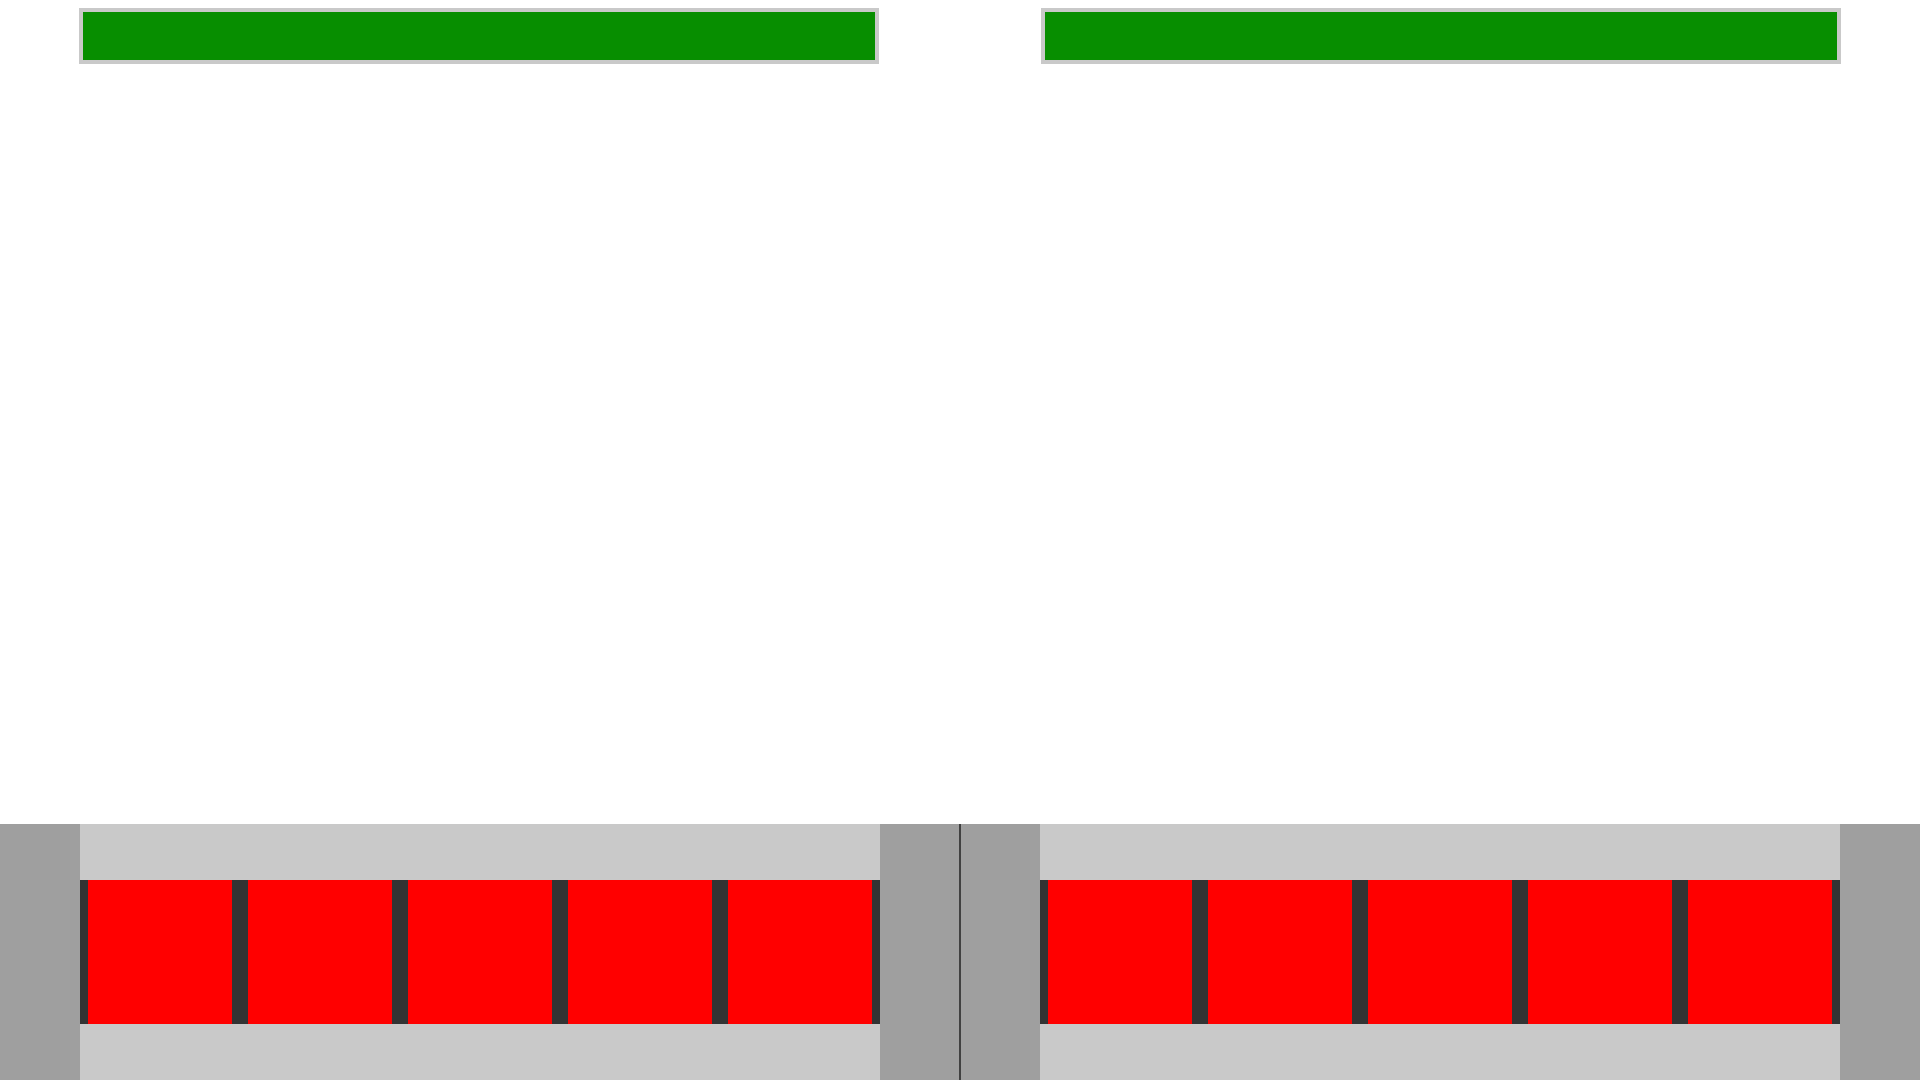
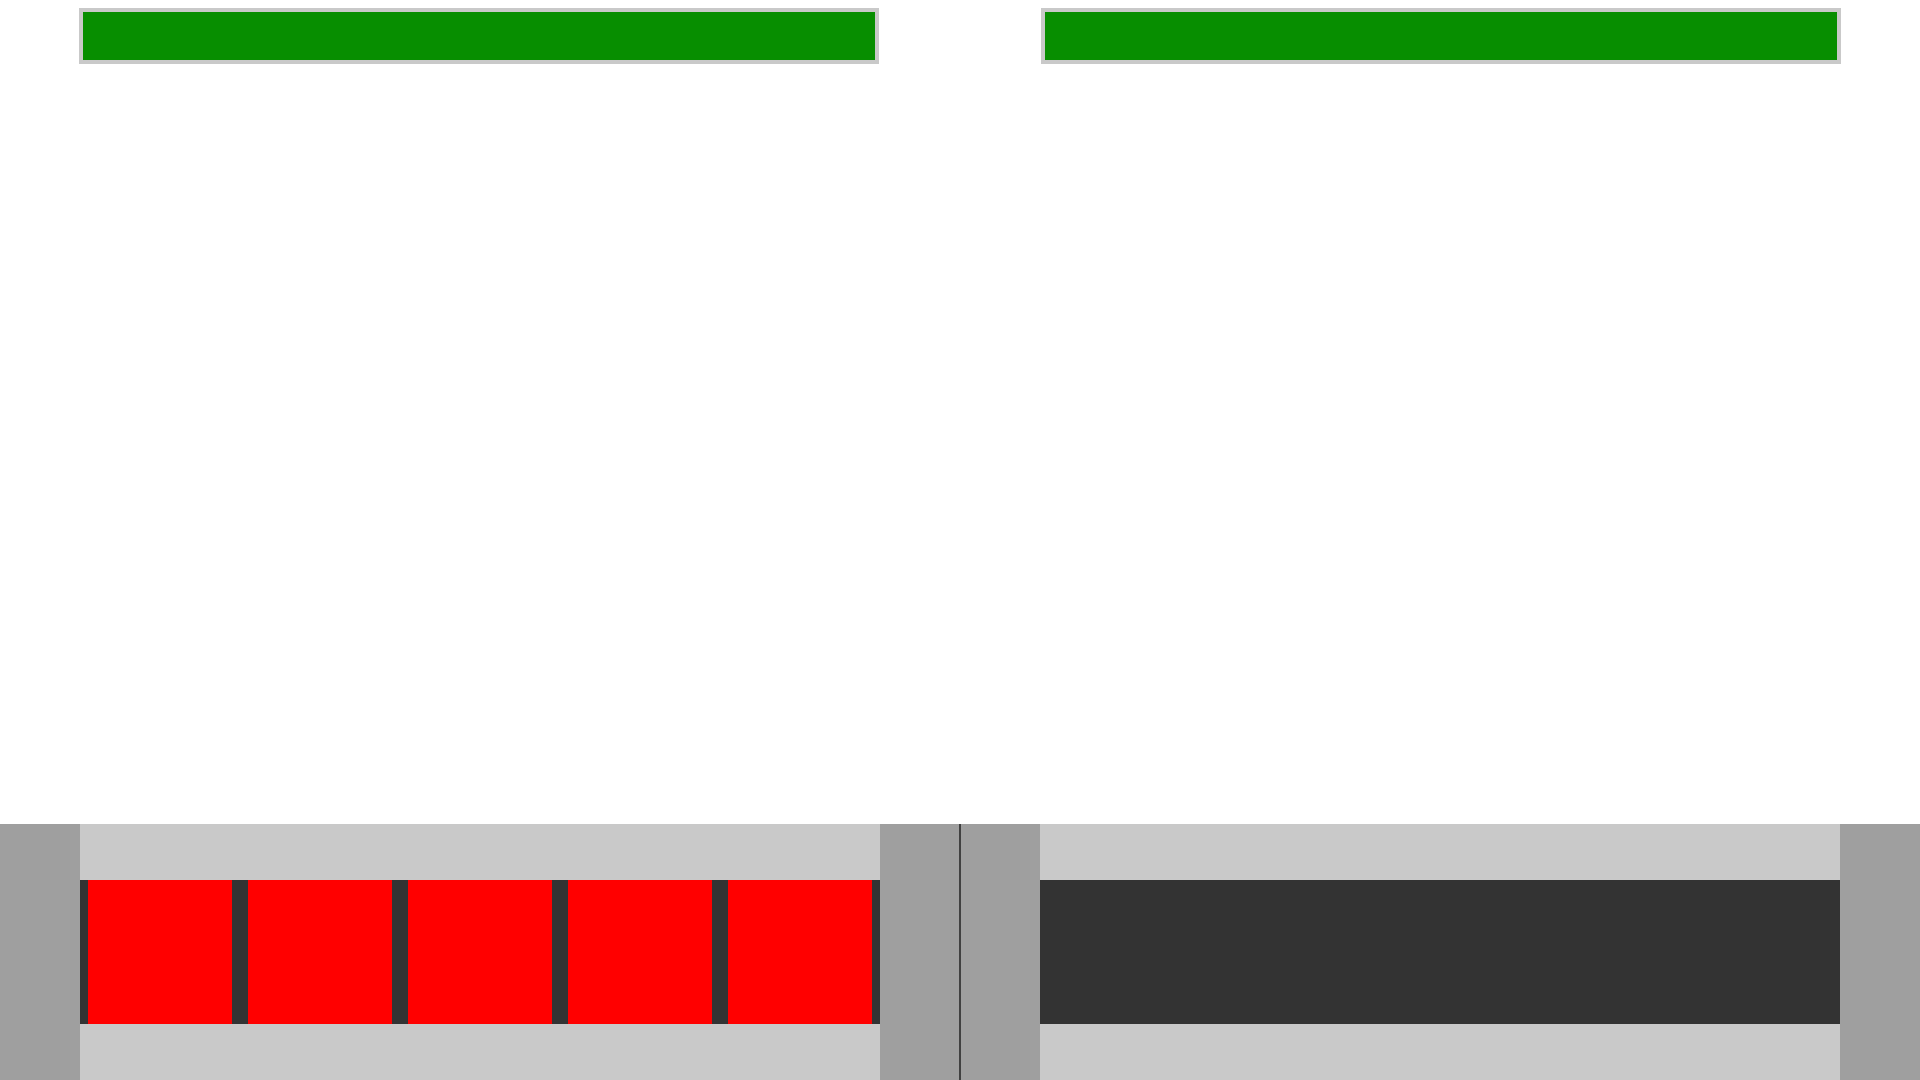
Kodverifiering och mindre grafisk uppdatering
Victor, Marcus o Gino

Changed region(s): [[0.5312, 0.7944, 0.9688, 0.9472]]

diff --git a/Grupp 31-SystemUtveckling/Grupp 31-SystemUtveckling/Archive.cs b/Grupp 31-SystemUtveckling/Grupp 31-SystemUtveckling/Archive.cs
@@ -17,29 +17,30 @@ namespace Grupp_31_SystemUtveckling
 
         public static void Initialize(ContentManager Content)
         {
-            // Order alphabetically Kappa
+            // Order alphabetically
             // textureDictionary["name"] = Content.Load<Texture2D>("name_in_content_manager");
             // ex. textureDictionary["tile_stone"] = Content.Load<Texture2D>("Tiles\tile_stone");
-            textureDictionary["uiCombat"] = Content.Load<Texture2D>("combatUITemplate");
-            textureDictionary["menuBackground"] = Content.Load<Texture2D>("menuBackground");
-            textureDictionary["menuHeader"] = Content.Load<Texture2D>("menuHeader");
             textureDictionary["button"] = Content.Load<Texture2D>("button");
             textureDictionary["combatScenary"] = Content.Load<Texture2D>("combatScenary");
+            textureDictionary["EditorTile"] = Content.Load<Texture2D>("TilePlaceHolder2");
+            textureDictionary["menuBackground"] = Content.Load<Texture2D>("menuBackground");
+            textureDictionary["menuHeader"] = Content.Load<Texture2D>("menuHeader");
             textureDictionary["owlbearCombat"] = Content.Load<Texture2D>("Enemies\\enemyCombatTest");
             textureDictionary["owlbearCombatOutline"] = Content.Load<Texture2D>("Enemies\\Outline\\enemyCombatTestOutline");
             textureDictionary["playerPlaceholder"] = Content.Load<Texture2D>("cool bild transparent fixed");
-            textureDictionary["resourceBarFrame"] = Content.Load<Texture2D>("resourceBarFrame");
             textureDictionary["resourceBarFilling"] = Content.Load<Texture2D>("resourceBarFilling");
+            textureDictionary["resourceBarFrame"] = Content.Load<Texture2D>("resourceBarFrame");
+            textureDictionary["SavePlaceholder"] = Content.Load<Texture2D>("Save");
             textureDictionary["tile"] = Content.Load<Texture2D>("TilePlaceHolder");
             textureDictionary["tileDoor"] = Content.Load<Texture2D>("TileDoor");
+            textureDictionary["tilegrass"] = Content.Load<Texture2D>("grassTex");
+            textureDictionary["uiCombat"] = Content.Load<Texture2D>("combatUITemplate"); 
+            textureDictionary["uiWorld"] = Content.Load<Texture2D>("UIBasePlaceholder");
+            textureDictionary["WallTIlePlaceholder"] = Content.Load<Texture2D>("W");
+            textureDictionary["WalkTilePlaceholder"] = Content.Load<Texture2D>("T");
             textureDictionary["warriorCombat"] = Content.Load<Texture2D>("Enemies\\playerCombatTest");
             textureDictionary["warriorCombatOutline"] = Content.Load<Texture2D>("Enemies\\Outline\\playerCombatTestOutline");
-            textureDictionary["WalkTilePlaceholder"] = Content.Load<Texture2D>("T");
-            textureDictionary["WallTIlePlaceholder"] = Content.Load<Texture2D>("W");
-            textureDictionary["SavePlaceholder"] = Content.Load<Texture2D>("Save");
-            textureDictionary["tilegrass"] = Content.Load<Texture2D>("grassTex");
-            textureDictionary["EditorTile"] = Content.Load<Texture2D>("TilePlaceHolder2");
-
+            
             fontDictionary["defaultFont"] = Content.Load<SpriteFont>("font");
         }
     }

diff --git a/Grupp 31-SystemUtveckling/Grupp 31-SystemUtveckling/Player.cs b/Grupp 31-SystemUtveckling/Grupp 31-SystemUtveckling/Player.cs
@@ -47,22 +47,22 @@ namespace Grupp_31_SystemUtveckling
             if (!moving)
             {
                 Console.WriteLine("test");
-                if (KeyMouseReader.KeyPressed(Keys.Left))
+                if (KeyMouseReader.KeyDown(Keys.Left))
                 {
                     ChangeDirection(new Vector2(-1, 0));
                     rotation = MathHelper.ToRadians(-180);
                 }
-                if (KeyMouseReader.KeyPressed(Keys.Right))
+                if (KeyMouseReader.KeyDown(Keys.Right))
                 {
                     ChangeDirection(new Vector2(1, 0));
                     rotation = MathHelper.ToRadians(0);
                 }
-                if (KeyMouseReader.KeyPressed(Keys.Up))
+                if (KeyMouseReader.KeyDown(Keys.Up))
                 {
                     ChangeDirection(new Vector2(0, -1));
                     rotation = MathHelper.ToRadians(-90);
                 }
-                if (KeyMouseReader.KeyPressed(Keys.Down))
+                if (KeyMouseReader.KeyDown(Keys.Down))
                 {
                     ChangeDirection(new Vector2(0, 1));
                     rotation = MathHelper.ToRadians(-270);

diff --git a/Grupp 31-SystemUtveckling/Grupp 31-SystemUtveckling/CombatRelated/Character.cs b/Grupp 31-SystemUtveckling/Grupp 31-SystemUtveckling/CombatRelated/Character.cs
@@ -163,7 +163,7 @@ namespace Grupp_31_SystemUtveckling
             }
             else
             {
-                spriteBatch.Draw(texture, position, null, Color.Red, 0.0f, 
+                spriteBatch.Draw(texture, position, null, Color.Red, 0.0f,
                     new Vector2(texture.Width / 2, texture.Height / 2), 1.0f, SpriteEffects.None, 0);
             }
         }

diff --git a/Grupp 31-SystemUtveckling/Grupp 31-SystemUtveckling/Game1.cs b/Grupp 31-SystemUtveckling/Grupp 31-SystemUtveckling/Game1.cs
@@ -113,7 +113,7 @@ namespace Grupp_31_SystemUtveckling
         
         protected override void Draw(GameTime gameTime)
         {
-            GraphicsDevice.Clear(Color.CornflowerBlue);
+            GraphicsDevice.Clear(Color.Black);
 
             spriteBatch.Begin();
             

diff --git a/Grupp 31-SystemUtveckling/Grupp 31-SystemUtveckling/KeyMouseReader.cs b/Grupp 31-SystemUtveckling/Grupp 31-SystemUtveckling/KeyMouseReader.cs
@@ -38,8 +38,7 @@ static class KeyMouseReader
     {
         return mouseState.ScrollWheelValue < oldMouseState.ScrollWheelValue;
     }
-
-    //Should be called at beginning of Update in Game
+    
     public static void Update()
     {
         oldKeyState = keyState;

diff --git a/Grupp 31-SystemUtveckling/Grupp 31-SystemUtveckling/Map.cs b/Grupp 31-SystemUtveckling/Grupp 31-SystemUtveckling/Map.cs
@@ -89,6 +89,8 @@ namespace Grupp_31_SystemUtveckling
 
             player.Draw(spriteBatch);
             enemy.Draw(spriteBatch);
+
+            spriteBatch.Draw(Archive.textureDictionary["uiWorld"], Vector2.Zero, Color.White);
         }
     }
 }
